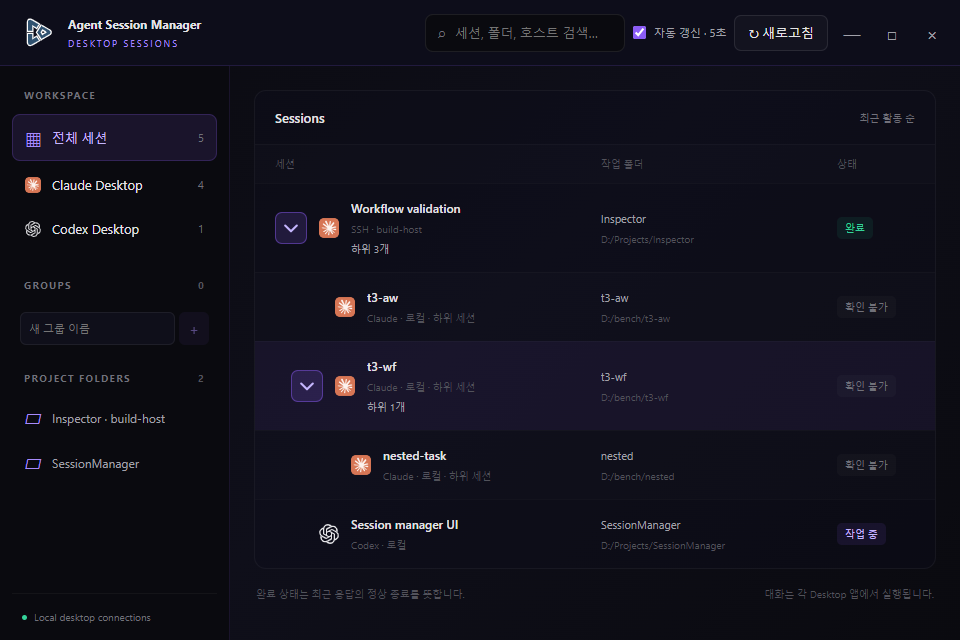
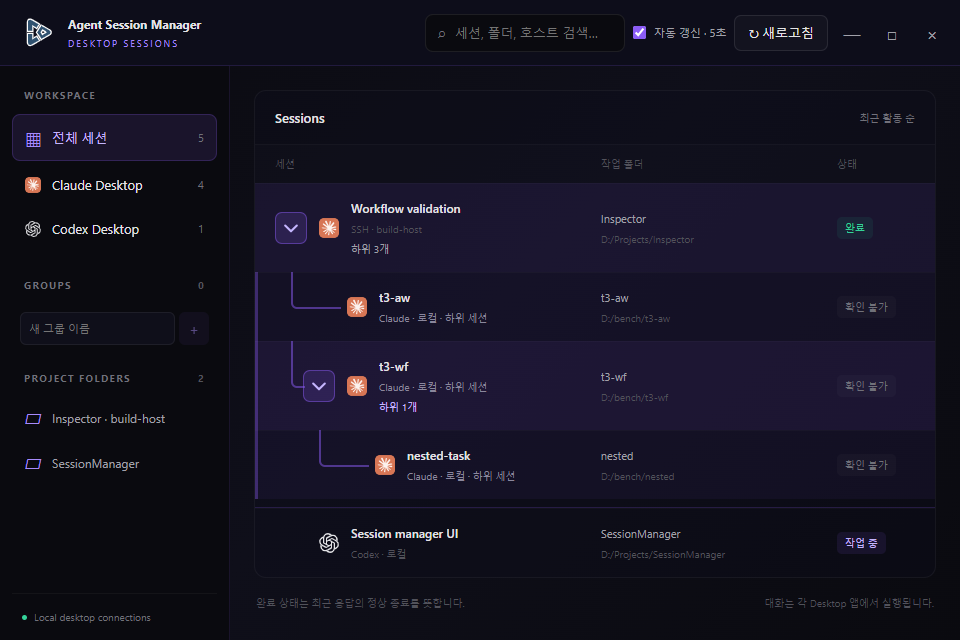
Clarify expanded child session hierarchy with branches and grouping

diff --git a/frontend/src/DesktopApp.svelte b/frontend/src/DesktopApp.svelte
@@ -260,7 +260,7 @@
               {@const session = row.node.session}
               {@const state = activity(session, now)}
               {@const workingChildren = row.descendants.filter(child => activity(child, now).state === 'working').length}
-              <div class="session-entry" class:child-entry={row.depth > 0} data-session-key={session.key} style={`--tree-indent:${Math.min(row.depth, 4) * 16}px`}>
+              <div class="session-entry" class:child-entry={row.depth > 0} class:branch-entry={row.descendants.length > 0} class:expanded-entry={row.expanded} data-session-key={session.key} style={`--tree-indent:${Math.min(row.depth, 4) * 28}px`}>
                 {#if row.descendants.length}
                   <button class="tree-toggle" aria-label={`${row.expanded ? '하위 세션 접기' : '하위 세션 펼치기'}: ${session.title}`} aria-expanded={row.expanded} on:click={() => toggleChildren(session.key, row.automatic)}><svg width="20" height="20" viewBox="0 0 24 24" fill="none" stroke="currentColor" stroke-width="2.5" stroke-linecap="round" stroke-linejoin="round" aria-hidden="true"><path d="m9 5 7 7-7 7" /></svg></button>
                 {/if}
@@ -301,7 +301,15 @@
   .session-panel { border:1px solid #ffffff0c; border-radius:12px; overflow:hidden; background:rgba(var(--bg-base-rgb),.42); } .panel-heading { display:flex; justify-content:space-between; align-items:center; padding:18px 20px; border-bottom:1px solid #ffffff0a; } .panel-heading h2 { font-size:13px; font-weight:600; } .panel-heading > span { font-size:10px; color:#71717a; }
   .table-heading,.session-row { display:grid; grid-template-columns:minmax(210px,1.5fr) minmax(130px,1fr) 85px 115px; gap:18px; align-items:center; } .table-heading { padding:12px 20px; color:#52525b; font-size:10px; background:#ffffff02; } .session-row { width:100%; background:none; border:0; border-top:1px solid #ffffff06; text-align:left; padding:16px 20px; } .session-row:hover { background:rgba(var(--accent-rgb),.07); } .session-title { min-width:0; display:flex; align-items:center; gap:12px; } .session-title > span { min-width:0; } .session-title strong { display:block; font-size:12px; font-weight:500; white-space:nowrap; overflow:hidden; text-overflow:ellipsis; } .session-title small,.session-path small { display:block; color:#52525b; font-size:10px; margin-top:6px; white-space:nowrap; overflow:hidden; text-overflow:ellipsis; } .session-path { min-width:0; color:#a1a1aa; font-size:11px; overflow:hidden; text-overflow:ellipsis; white-space:nowrap; } time { font-size:10px; color:#71717a; }
   .badge { display:inline-flex; justify-content:center; width:fit-content; gap:5px; font-size:10px; padding:4px 8px; border-radius:5px; background:#ffffff06; color:#71717a; white-space:nowrap; } .badge.working { background:#8b5cf61a; color:#c4b5fd; } .badge.completed { background:#10b98118; color:#34d399; } .badge.interrupted { background:#f59e0b18; color:#fbbf24; } .badge.idle { color:#a1a1aa; } .badge.error,.badge.refused { color:#fca5a5; background:#ef444418; }
-  .session-entry { position:relative; } .session-entry .session-title { padding-left:calc(44px + var(--tree-indent)); } .child-entry { background:#ffffff02; } .tree-toggle { position:absolute; z-index:1; left:calc(20px + var(--tree-indent)); top:50%; transform:translateY(-50%); display:flex; align-items:center; justify-content:center; width:32px; height:32px; padding:0; border:1px solid rgba(var(--accent-rgb),.45); border-radius:7px; color:var(--accent-lighter); background:rgba(var(--accent-rgb),.16); } .tree-toggle:hover { background:rgba(var(--accent-rgb),.3); border-color:var(--accent-light); } .tree-toggle:focus-visible { outline:2px solid var(--accent-light); outline-offset:2px; } .tree-toggle[aria-expanded=true] svg { transform:rotate(90deg); } .session-title .hierarchy-summary { color:#a1a1aa; } .session-title .descendant-working { color:#c4b5fd; } .missing-parent { color:#fbbf24; } .parent-link { margin-top:14px; color:#a1a1aa; font-size:12px; } .parent-link button { border:0; background:none; color:var(--accent-light); text-align:left; }
+  .session-entry { position:relative; } .session-entry .session-title { padding-left:calc(44px + var(--tree-indent)); } .tree-toggle { position:absolute; z-index:1; left:calc(20px + var(--tree-indent)); top:50%; transform:translateY(-50%); display:flex; align-items:center; justify-content:center; width:32px; height:32px; padding:0; border:1px solid rgba(var(--accent-rgb),.45); border-radius:7px; color:var(--accent-lighter); background:rgba(var(--accent-rgb),.16); } .tree-toggle:hover { background:rgba(var(--accent-rgb),.3); border-color:var(--accent-light); } .tree-toggle:focus-visible { outline:2px solid var(--accent-light); outline-offset:2px; } .tree-toggle[aria-expanded=true] svg { transform:rotate(90deg); } .session-title .hierarchy-summary { color:#a1a1aa; } .session-title .descendant-working { color:#c4b5fd; } .missing-parent { color:#fbbf24; } .parent-link { margin-top:14px; color:#a1a1aa; font-size:12px; } .parent-link button { border:0; background:none; color:var(--accent-light); text-align:left; }
+  .expanded-entry { background:rgba(var(--accent-rgb),.1); }
+  .expanded-entry .session-title strong { font-weight:600; }
+  .child-entry { background:rgba(var(--accent-rgb),.055); box-shadow:inset 3px 0 rgba(var(--accent-rgb),.35); }
+  .child-entry::before { content:''; position:absolute; pointer-events:none; left:calc(8px + var(--tree-indent)); top:0; height:50%; width:12px; border-left:2px solid rgba(var(--accent-rgb),.5); border-bottom:2px solid rgba(var(--accent-rgb),.5); border-bottom-left-radius:6px; }
+  .child-entry:not(.branch-entry)::before { width:48px; }
+  .child-entry .session-title small { color:#8b879d; }
+  .child-entry .session-title .hierarchy-summary { color:var(--accent-lighter); }
+  .child-entry + .session-entry:not(.child-entry) { margin-top:8px; border-top:1px solid rgba(var(--accent-rgb),.2); }
   .banner { padding:12px 16px; border-radius:8px; margin-bottom:18px; font-size:12px; white-space:pre-wrap; overflow-wrap:anywhere; } .banner.error { background:#ef444413; border:1px solid #ef44442c; color:#fca5a5; } .banner.success { background:#10b98112; border:1px solid #10b98125; color:#6ee7b7; } .banner.warning { color:#fbbf24; background:#f59e0b0c; border:1px solid #f59e0b20; } .warning p { margin-top:8px; font-size:11px; }
   .back { border:0; background:none; color:#a1a1aa; font-size:12px; padding:0 0 18px; } .detail-card { padding:28px; border:1px solid rgba(var(--accent-rgb),.18); border-radius:12px; background:linear-gradient(145deg,var(--bg-base),var(--bg-sunken)); } .detail-heading { display:flex; align-items:center; gap:12px; margin-bottom:18px; } .provider { color:#a1a1aa; font-size:12px; } .detail-heading .badge { margin-left:auto; } .detail-card h2 { font-size:22px; line-height:1.5; overflow-wrap:anywhere; white-space:pre-wrap; } dl { display:grid; grid-template-columns:100px 1fr; row-gap:20px; margin-top:28px; } dt { color:#71717a; font-size:11px; } dd { color:#d4d4d8; font-size:12px; overflow-wrap:anywhere; } .mono { font-family:monospace; color:#a1a1aa; } .primary { border:1px solid rgba(var(--accent-rgb),.6); border-radius:8px; background:var(--accent); color:var(--accent-ink); padding:12px 18px; } .open-button { margin-top:28px; display:flex; align-items:center; gap:28px; } .open-button span { font-size:18px; } .group-assignment { display:flex; align-items:center; gap:12px; border-top:1px solid #ffffff0a; padding-top:24px; margin-top:28px; } .group-assignment label { color:#71717a; } .group-assignment select { min-width:160px; font:inherit; } .membership { display:flex; flex-wrap:wrap; gap:8px; margin-top:16px; } .membership button { border:1px solid rgba(var(--accent-rgb),.2); background:rgba(var(--accent-rgb),.1); color:var(--accent-lighter); font-size:11px; padding:5px 9px; border-radius:5px; }
   .empty { padding:60px 20px; text-align:center; color:#71717a; } .empty button { display:block; margin:16px auto 0; background:none; border:0; color:var(--accent-light); } footer { display:flex; justify-content:space-between; gap:16px; color:#52525b; font-size:10px; padding:18px 2px; }

diff --git a/docs/ai/tasks/session-hierarchy-visibility/HANDOFF.md b/docs/ai/tasks/session-hierarchy-visibility/HANDOFF.md
@@ -1,0 +1,40 @@
+# 펼친 하위 세션 구분 개선
+
+- 날짜: 2026-10-30
+- 상태: 완료
+- 스킬: software-change-workflow
+- 위험도: 낮음. 기존 계층 데이터에 맞춘 국소적인 시각 표현 변경이다.
+
+## 요청과 범위
+
+- 사용자 요청: 하위 세션을 확장해도 하위 세션이 명확하게 구분되지 않는 느낌 개선.
+- 가정: 펼쳐진 부모·자식 관계와 하위 묶음의 범위를 더 쉽게 식별해야 한다.
+- 제품 변경: `frontend/src/DesktopApp.svelte`의 표시용 클래스·들여쓰기·CSS만 변경한다.
+- 진행: 현재 계층 화면 확인 → 연결선·들여쓰기·배경 조정 → 기존 회귀·정적 검사·화면 확인·빌드 → scoped commit.
+
+## 변경
+
+- 단계별 들여쓰기를 16px에서 28px로 확대한다. 기존 최대 4단계 표시 제한을 유지한다.
+- 펼친 부모의 배경과 제목 굵기를 강조한다.
+- 하위 행에 옅은 보라색 배경과 왼쪽 경계선을 넣어 하나의 하위 묶음으로 보이게 한다.
+- 각 하위 행에 가지 모양 연결선을 넣는다. 자식을 가진 행은 펼침 버튼 앞까지, 말단 행은 제공자 아이콘 앞까지 연결선을 그린다.
+- 연결선은 CSS 가상 요소이며 pointer-events:none으로 클릭을 방해하지 않는다.
+- 하위 행의 보조 설명 대비를 높이고, 하위 묶음 다음 일반 행 앞에 8px 간격과 경계를 둔다.
+- 계층 구성·정렬·필터·검색·펼침 상태·대화 열기 로직은 유지했다. 부모를 확인할 수 없는 독립 행은 하위 배경을 적용하지 않는다.
+- 기본·최소 크기 계층 화면 캡처 2개를 갱신했다.
+
+## 검증과 검토
+
+- `npx playwright test --config playwright.desktop.config.mjs`: 24개 모두 통과. 중첩 검색·접기·펼치기·갱신 상태 유지·자식 대화 열기·부모 이동·그룹·누락된 부모·최소 창 크기 포함.
+- `npm run check`: 오류 0개, 기존 경고 111개/29개 파일.
+- `scripts/build-desktop.ps1`: 성공. `desktop/build/bin/desktop-session-manager.exe` 갱신.
+- 1380×880 및 960×640 캡처를 직접 확인했다. 부모→자식→손자의 들여쓰기와 가지 표시가 구분되며 버튼·제공자 아이콘·텍스트·상태 열이 겹치지 않는다.
+- `git diff --check`: 통과.
+- 자체 검토: 제품 변경은 표시 부분에 한정했다. 새 의존성·백엔드·저장 데이터 변경 없음. 기존 배경 규칙은 새 규칙으로 교체해 중복을 제거했다.
+- 저영향 표시 수정이므로 새 영구 테스트 없이 기존 브라우저 회귀 테스트와 화면 확인으로 검증했다. 실제 대화 열기는 mock bridge에서만 수행했다.
+
+## 적용과 체크포인트
+
+- 앱을 다시 실행하면 적용된다. 남은 구현 작업 없음.
+- 제품 수정·계층 캡처 2개·본 기록만 단일 scoped commit으로 남긴다.
+- 기존 미추적 `verification/desktop-replacement-backup/`은 변경하거나 커밋하지 않는다.
